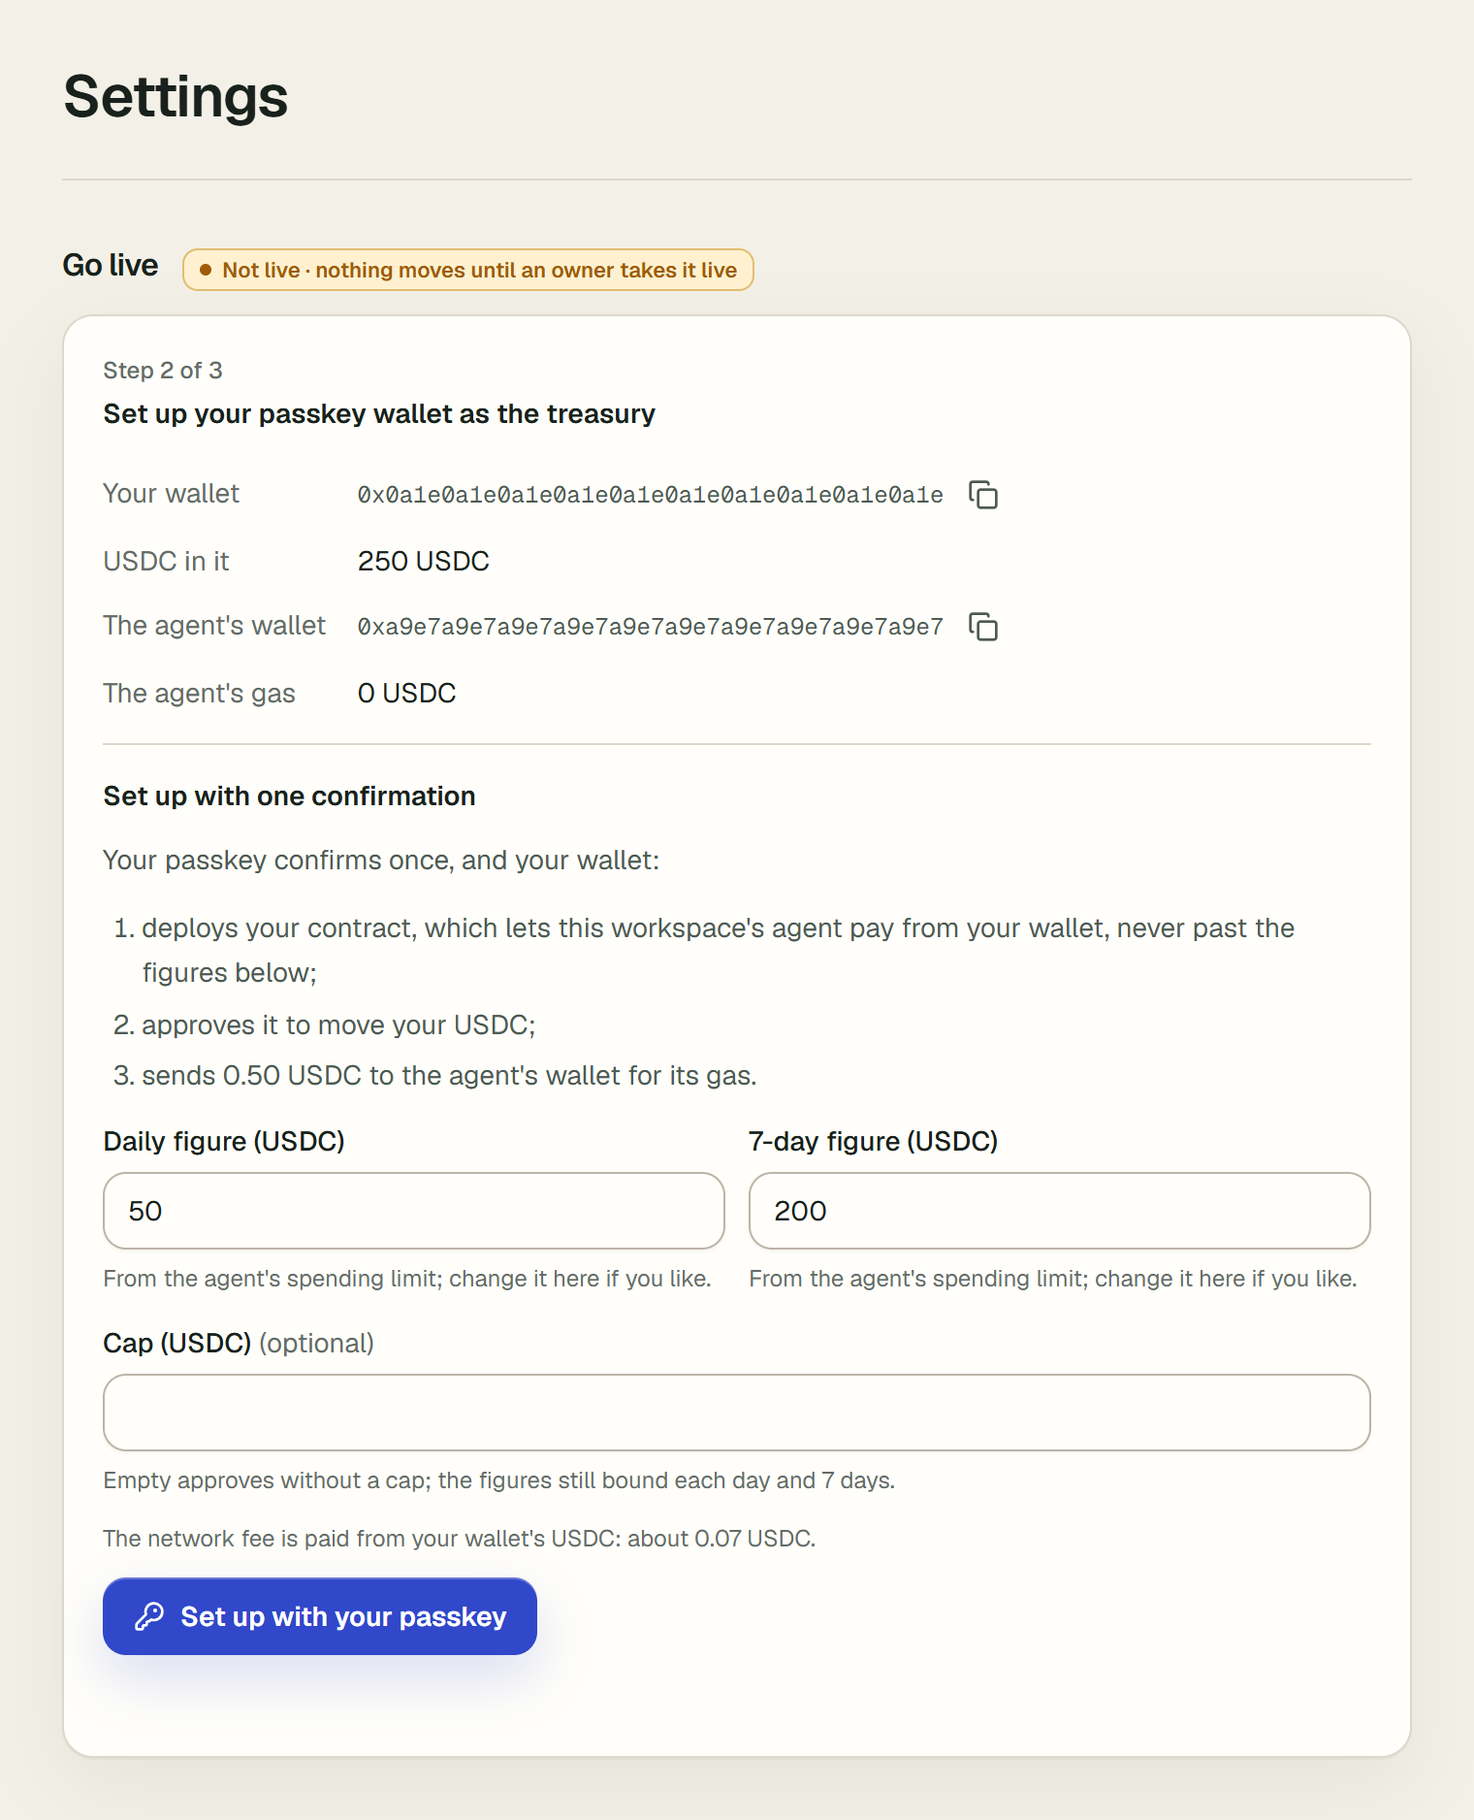
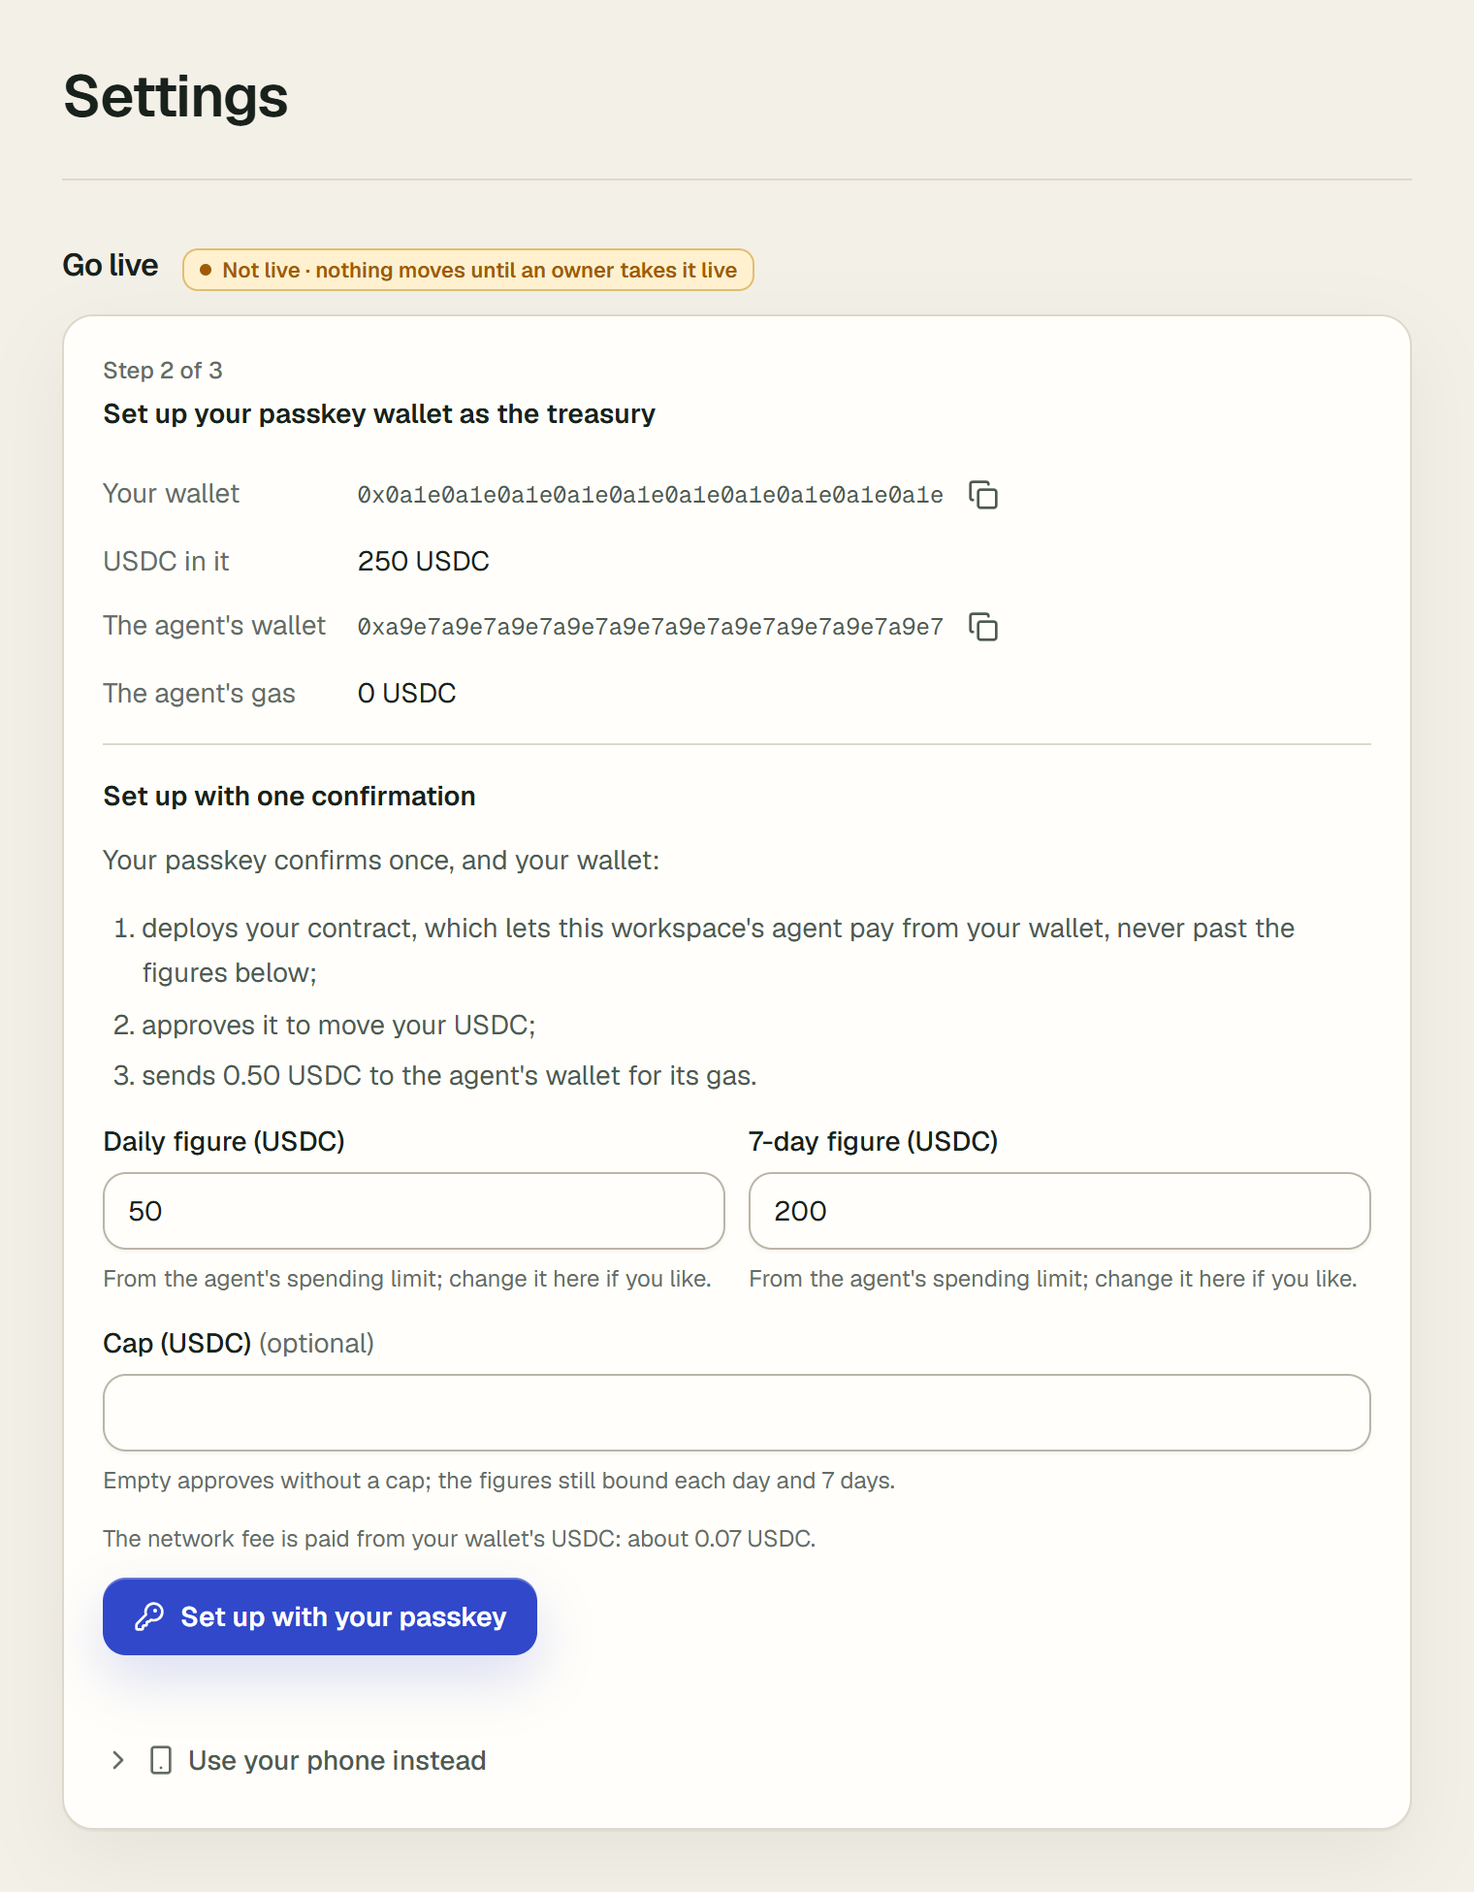
Offer to make or use the passkey on a phone instead
From a computer, a passkey on a phone is reached over the browser's
Bluetooth link, which stayed on "Connecting to your device" on a
Windows PC without Windows Hello; the same page on the phone worked at
once. Under the passkey card and each step the passkey signs, "Use your
phone instead" now shows a QR code of the page: folded on a computer,
open where the device keeps no passkey of its own, absent on a phone.

Changed region(s): [[0.0618, 0.1855, 0.9276, 0.9584], [0.0309, 0.1237, 0.5257, 0.1546], [0.0309, 0.0309, 0.2164, 0.0928]]

diff --git a/src/components/treasury/PhoneHandoff.tsx b/src/components/treasury/PhoneHandoff.tsx
@@ -1,0 +1,101 @@
+"use client";
+
+import { ChevronRight, Smartphone } from "lucide-react";
+import { createContext, useContext, useSyncExternalStore, type ReactNode } from "react";
+import { Disclosure } from "@/components/ui/Disclosure";
+import { handoffView, qrPath } from "@/lib/passkey-handoff";
+
+/** "Use your phone instead" under a passkey button: why and when in src/lib/passkey-handoff.ts. */
+
+const neverChanges = () => () => {};
+const FINE_POINTER = "(hover: hover) and (pointer: fine)";
+
+const HandoffUrl = createContext<string | null>(null);
+
+/** Gives the handoff a page to show where this page's own address is not the one to scan: the guide's screenshots. */
+export function PhoneHandoffUrl({ url, children }: { url: string; children: ReactNode }) {
+  return <HandoffUrl.Provider value={url}>{children}</HandoffUrl.Provider>;
+}
+
+/** Whether this device keeps passkeys of its own, asked once a page: null until the browser answers. */
+const device: { keeps: boolean | null; asked: boolean; listeners: Set<() => void> } = { keeps: null, asked: false, listeners: new Set() };
+
+function subscribeDevice(onChange: () => void): () => void {
+  device.listeners.add(onChange);
+  if (!device.asked) {
+    device.asked = true;
+    window.PublicKeyCredential?.isUserVerifyingPlatformAuthenticatorAvailable?.()
+      .then((keeps) => {
+        device.keeps = keeps;
+        device.listeners.forEach((listener) => listener());
+      })
+      .catch(() => {});
+  }
+  return () => {
+    device.listeners.delete(onChange);
+  };
+}
+
+function subscribePointer(onChange: () => void): () => void {
+  const query = window.matchMedia(FINE_POINTER);
+  query.addEventListener("change", onChange);
+  return () => query.removeEventListener("change", onChange);
+}
+
+/** The handoff for this device: open where it keeps no passkey of its own, folded on a computer, left out on a phone. */
+export function PhoneHandoff({ kind }: { kind: "create" | "confirm" }) {
+  const deviceKeepsPasskeys = useSyncExternalStore(subscribeDevice, () => device.keeps, () => null);
+  const finePointer = useSyncExternalStore(subscribePointer, () => window.matchMedia(FINE_POINTER).matches, () => null);
+  const given = useContext(HandoffUrl);
+  const here = useSyncExternalStore(neverChanges, () => window.location.href, () => null);
+  const url = given ?? here;
+  const view = handoffView({ finePointer, deviceKeepsPasskeys });
+  if (view === "hidden" || !url) return null;
+  return <PhoneHandoffPanel kind={kind} url={url} open={view === "open"} />;
+}
+
+/** A code that opens `url` on a phone, with what to do there. */
+export function PhoneHandoffPanel({ kind, url, open }: { kind: "create" | "confirm"; url: string; open: boolean }) {
+  const { size, path } = qrPath(url);
+  return (
+    <Disclosure
+      variant="bare"
+      defaultOpen={open}
+      summary={
+        <span className="inline-flex items-center gap-1.5 text-sm font-medium text-ink-2 transition-colors duration-150 ease-standard hover:text-ink">
+          <ChevronRight aria-hidden className="size-4 shrink-0 text-ink-3 transition-transform duration-200 ease-standard group-open/disclosure:rotate-90" />
+          <Smartphone aria-hidden className="size-4 shrink-0 text-ink-3" />
+          Use your phone instead
+        </span>
+      }
+      contentClassName="pt-3"
+    >
+      <div className="flex flex-wrap items-start gap-4">
+        <svg
+          viewBox={`0 0 ${size} ${size}`}
+          role="img"
+          aria-label="A code that opens this page on your phone"
+          shapeRendering="crispEdges"
+          className="size-36 shrink-0 rounded-lg border border-line bg-surface"
+        >
+          <path className="fill-ink" d={path} />
+        </svg>
+        <div className="min-w-0 flex-1 space-y-2 text-sm leading-relaxed text-ink-2">
+          {kind === "create" ? (
+            <p>
+              Scan this code with your phone to open this page there, and create the passkey on the phone itself. From a computer with no passkey of its
+              own, such as a Windows PC without Windows Hello, the browser asks your phone over Bluetooth, and can stay on &quot;Connecting to your
+              device&quot;.
+            </p>
+          ) : (
+            <p>
+              Scan this code with the phone that holds the passkey to open this page there, and confirm on the phone. From a computer, the browser
+              reaches a passkey on your phone over Bluetooth, and can stay on &quot;Connecting to your device&quot;.
+            </p>
+          )}
+          <p className="break-all font-mono text-xs text-ink-3">{url}</p>
+        </div>
+      </div>
+    </Disclosure>
+  );
+}

diff --git a/tests/go-live-panel.test.tsx b/tests/go-live-panel.test.tsx
@@ -28,6 +28,11 @@ vi.mock("@/app/actions/wallet-treasury", () => ({
   skipRecoveryAction: vi.fn(),
 }));
 vi.mock("next/navigation", () => ({ useRouter: () => ({ refresh: vi.fn() }) }));
+// The handoff reads the device in the browser only; here it marks where the panel places it.
+vi.mock("@/components/treasury/PhoneHandoff", async () => {
+  const { createElement } = await import("react");
+  return { PhoneHandoff: ({ kind }: { kind: string }) => createElement("i", { "data-phone-handoff": kind }) };
+});
 
 vi.mock("@/app/actions/go-live", () => ({
   chooseHostedWalletAction: vi.fn(),
@@ -527,6 +532,15 @@ describe("GoLivePanel and the owner's own wallet (wallet treasury W1, W5-W10)", 
     }
   });
 
+  it("offers to make the passkey on a phone instead, under the passkey card (2026-10-07)", () => {
+    vi.stubEnv("NEXT_PUBLIC_MODULAR_WALLETS_MAINNET_CLIENT_KEY", "LIVE_CLIENT_KEY:abc");
+    try {
+      expect(panel(status({ network: "arc-mainnet", walletTreasuryAvailable: true }))).toContain('data-phone-handoff="create"');
+    } finally {
+      vi.unstubAllEnvs();
+    }
+  });
+
   it("offers no passkey wallet without the mainnet client key", () => {
     vi.stubEnv("NEXT_PUBLIC_MODULAR_WALLETS_MAINNET_CLIENT_KEY", "");
     try {
@@ -612,6 +626,12 @@ describe("GoLivePanel and the owner's own wallet (wallet treasury W1, W5-W10)", 
       expect(words).toContain("Set up with your passkey");
       expect(words).toContain("The network fee is paid from your wallet's USDC: about 0.07 USDC.");
       expect(words).not.toContain("Deploy from your wallet");
+    });
+
+    it("offers to confirm on a phone wherever the passkey signs, and nowhere it does not (2026-10-07)", () => {
+      expect(panel(passkey({ step: "deploy", walletUsdc: 12.5 }))).toContain('data-phone-handoff="confirm"');
+      expect(panel(passkey({ step: "recovery", contract: CONTRACT, walletUsdc: 12, agentGasUsdc: 0.5 }))).toContain('data-phone-handoff="confirm"');
+      expect(panel(passkey({ step: "deploy", walletUsdc: 0.2 }))).not.toContain("data-phone-handoff");
     });
 
     it("asks for a recovery phrase after setup, and lets the owner skip it knowingly", () => {

diff --git a/src/app/docs-shots/shots.tsx b/src/app/docs-shots/shots.tsx
@@ -23,6 +23,7 @@ import InvoiceDocumentIntake, { DocumentDraft } from "@/components/intake/Invoic
 import InvoiceIntake from "@/components/intake/InvoiceIntake";
 import PayFreelancerForm, { PaymentLinkReady } from "@/components/intake/PayFreelancerForm";
 import { PayeeJourney } from "@/components/payee/PayeeJourney";
+import { PhoneHandoffUrl } from "@/components/treasury/PhoneHandoff";
 import { Button } from "@/components/ui/Button";
 import { Card } from "@/components/ui/Card";
 import { CopyButton } from "@/components/ui/CopyButton";
@@ -174,9 +175,20 @@ const PASSKEY_RECOVERY: GoLiveStatus = {
   },
 };
 
+/** Set up, with the agent's gas run short before going live: the passkey sends it more (the guide's "only when needed"). */
+const PASSKEY_GAS: GoLiveStatus = {
+  ...PASSKEY_RECOVERY,
+  walletTreasury: { ...PASSKEY_RECOVERY.walletTreasury!, step: "gas", agentGasUsdc: 0.04 },
+};
+
 function goLive(status: GoLiveStatus, sampleBalance?: number): () => ReactNode {
   return function GoLiveShot() {
-    return <GoLivePanel orgSlug={SLUG} status={status} canAdminister sampleBalance={sampleBalance} />;
+    // The phone handoff's code shows the workspace's own Settings, not the screenshot's address.
+    return (
+      <PhoneHandoffUrl url={`https://www.vestiarion.xyz/o/${SLUG}/settings`}>
+        <GoLivePanel orgSlug={SLUG} status={status} canAdminister sampleBalance={sampleBalance} />
+      </PhoneHandoffUrl>
+    );
   };
 }
 
@@ -572,6 +584,8 @@ export const DOCS_SHOTS = {
   "go-live-passkey-fund": { guide: "go-live", page: "settings", render: goLive(PASSKEY_FUND) },
   "go-live-passkey-setup": { guide: "go-live", page: "settings", render: goLive(PASSKEY_SETUP) },
   "go-live-passkey-recovery": { guide: "go-live", page: "settings", render: goLive(PASSKEY_RECOVERY) },
+  // A computer with no passkey of its own: the script tells the page so, and the phone handoff opens by itself.
+  "go-live-passkey-phone": { guide: "go-live", page: "settings", render: goLive(PASSKEY_GAS) },
   "go-live-live": {
     guide: "go-live",
     page: "settings",

diff --git a/tests/passkey-handoff.test.ts b/tests/passkey-handoff.test.ts
@@ -1,0 +1,38 @@
+import { encode } from "uqr";
+import { describe, expect, it } from "vitest";
+import { handoffView, qrPath } from "@/lib/passkey-handoff";
+
+/**
+ * "Use your phone instead" under a passkey button (2026-10-07): a code that opens the same page on the phone, so a
+ * passkey is made or used there without the browser's Bluetooth link to the phone. The partner's Windows PC, with no
+ * Windows Hello, stayed on "Connecting to your device"; the same page on the iPhone made the treasury's passkey at once.
+ */
+
+describe("handoffView", () => {
+  it("opens the handoff where the device keeps no passkey of its own", () => {
+    expect(handoffView({ finePointer: true, deviceKeepsPasskeys: false })).toBe("open");
+    expect(handoffView({ finePointer: null, deviceKeepsPasskeys: false })).toBe("open");
+  });
+
+  it("offers it folded on a computer that keeps passkeys, or before it is known whether it does", () => {
+    expect(handoffView({ finePointer: true, deviceKeepsPasskeys: true })).toBe("collapsed");
+    expect(handoffView({ finePointer: true, deviceKeepsPasskeys: null })).toBe("collapsed");
+  });
+
+  it("leaves it out on a phone that keeps its own passkeys, and while nothing is known", () => {
+    expect(handoffView({ finePointer: false, deviceKeepsPasskeys: true })).toBe("hidden");
+    expect(handoffView({ finePointer: null, deviceKeepsPasskeys: null })).toBe("hidden");
+  });
+});
+
+describe("qrPath", () => {
+  it("draws one square for each dark module of the page's QR code, inside a quiet zone of two modules", () => {
+    const url = "https://www.vestiarion.xyz/o/mainnet-wp/settings";
+    const { size, path } = qrPath(url);
+    const modules = encode(url, { border: 2 }).data;
+    expect(size).toBe(modules.length);
+    expect(path.match(/M/g)).toHaveLength(modules.flat().filter(Boolean).length);
+    expect(path).not.toMatch(/M[01] /);
+    expect(path).not.toMatch(/M\d+ [01]h/);
+  });
+});

diff --git a/tests/passkey-handoff-panel.test.tsx b/tests/passkey-handoff-panel.test.tsx
@@ -1,0 +1,31 @@
+import { renderToStaticMarkup } from "react-dom/server";
+import { describe, expect, it } from "vitest";
+import { PhoneHandoffPanel } from "@/components/treasury/PhoneHandoff";
+
+/** The handoff as it renders (the tests/go-live-panel.test.tsx shape: vitest's node environment, no DOM). */
+
+const PAGE = "https://www.vestiarion.xyz/o/mainnet-wp/settings";
+
+describe("PhoneHandoffPanel", () => {
+  it("folds a code that opens this page on the phone under Use your phone instead", () => {
+    const folded = renderToStaticMarkup(<PhoneHandoffPanel kind="confirm" url={PAGE} open={false} />);
+    expect(folded).toContain("<details");
+    expect(folded).not.toMatch(/<details[^>]*\sopen/);
+    expect(folded).toContain("Use your phone instead");
+    expect(folded).toMatch(/<svg[^>]*role="img"[^>]*aria-label="A code that opens this page on your phone"/);
+    expect(folded).toContain(PAGE);
+  });
+
+  it("is open where the device keeps no passkey of its own", () => {
+    expect(renderToStaticMarkup(<PhoneHandoffPanel kind="confirm" url={PAGE} open />)).toMatch(/<details[^>]*\sopen/);
+  });
+
+  it("says whether the passkey is made or used on the phone, and why the computer may wait", () => {
+    const create = renderToStaticMarkup(<PhoneHandoffPanel kind="create" url={PAGE} open />);
+    expect(create).toContain("create the passkey on the phone itself");
+    expect(create).toContain("Connecting to your device");
+    const confirm = renderToStaticMarkup(<PhoneHandoffPanel kind="confirm" url={PAGE} open />);
+    expect(confirm).toContain("Scan this code with the phone that holds the passkey");
+    expect(confirm).toContain("confirm on the phone");
+  });
+});

diff --git a/src/lib/passkey-handoff.ts b/src/lib/passkey-handoff.ts
@@ -1,0 +1,28 @@
+import { encode } from "uqr";
+
+/**
+ * "Use your phone instead" under a passkey button (2026-10-07): a code that opens the same page on a phone, so the
+ * passkey is made or used there rather than reached from the computer over the browser's Bluetooth link to the phone.
+ * That link stayed on "Connecting to your device" on the partner's Windows PC, with no Windows Hello, while the same page
+ * on the iPhone made the treasury's passkey at once. Browser-safe: the Go live panel draws it.
+ */
+
+export type HandoffView = "hidden" | "collapsed" | "open";
+
+/** Open where the device keeps no passkey of its own; folded on a computer; left out on a phone, and before it is known. */
+export function handoffView(input: { finePointer: boolean | null; deviceKeepsPasskeys: boolean | null }): HandoffView {
+  if (input.deviceKeepsPasskeys === false) return "open";
+  return input.finePointer === true ? "collapsed" : "hidden";
+}
+
+/** A page's QR code as one SVG path of unit squares, with a quiet zone of two modules, for the page's ink to fill. */
+export function qrPath(url: string): { size: number; path: string } {
+  const { data } = encode(url, { border: 2 });
+  let path = "";
+  data.forEach((row, y) =>
+    row.forEach((dark, x) => {
+      if (dark) path += `M${x} ${y}h1v1h-1z`;
+    })
+  );
+  return { size: data.length, path };
+}

diff --git a/src/components/treasury/PasskeyTreasurySteps.tsx b/src/components/treasury/PasskeyTreasurySteps.tsx
@@ -13,6 +13,7 @@ import {
   recordRecoveryAction,
   skipRecoveryAction,
 } from "@/app/actions/wallet-treasury";
+import { PhoneHandoff } from "@/components/treasury/PhoneHandoff";
 import { WalletTreasurySummary } from "@/components/treasury/WalletTreasurySteps";
 import { Badge } from "@/components/ui/Badge";
 import { Button } from "@/components/ui/Button";
@@ -145,6 +146,7 @@ export function PasskeyWalletCard({ orgSlug, lead }: { orgSlug: string; lead: bo
         </Button>
       </div>
       <FormMessage tone={note?.tone ?? "neutral"}>{note?.text}</FormMessage>
+      <PhoneHandoff kind="create" />
     </div>
   );
 }
@@ -548,7 +550,13 @@ export default function PasskeyTreasurySteps({ orgSlug, status, network }: { org
         <h3 className="text-sm font-semibold text-ink">Set up your passkey wallet as the treasury</h3>
       </div>
       <WalletTreasurySummary status={status} network={network} />
-      {body && <div className="space-y-3 border-t border-line pt-4">{body}</div>}
+      {body && (
+        <div className="space-y-3 border-t border-line pt-4">
+          {body}
+          {/* Where the passkey signs, it can sign on a phone instead (src/lib/passkey-handoff.ts). */}
+          {(view === "setup" || view === "gas" || view === "recovery") && <PhoneHandoff kind="confirm" />}
+        </div>
+      )}
     </Card>
   );
 }

diff --git a/ARCHITECTURE.md b/ARCHITECTURE.md
@@ -554,6 +554,11 @@ with no browser wallet:
     at least 1 gwei of priority (`circleUserOperationFees` in `src/lib/passkey-wallet-sdk.ts`). On 2026-10-07 Arc
     mainnet's own priority fee was 4,049 wei, Circle's bundler asked at least 3 gwei, and it refused the first setup
     priced the chain's way. A failure nothing else names shows the reason the bundler or browser gave.
+  - Under the passkey card and each step the passkey signs, **Use your phone instead** shows a QR code of the page
+    (`src/components/treasury/PhoneHandoff.tsx`, `src/lib/passkey-handoff.ts`, drawn with `uqr`): folded on a computer,
+    open where `isUserVerifyingPlatformAuthenticatorAvailable` says the device keeps no passkey, absent on a phone. A
+    computer reaching a phone's passkey goes over the browser's Bluetooth link, which stayed on "Connecting to your
+    device" on the partner's Windows PC on 2026-10-07.
 - **The recovery.** A recovery phrase made in the browser is registered as a recovery owner with
   Circle's `registerRecoveryAddress` (`treasury_recovery_registered`), or skipped knowingly
   (`treasury_recovery_skipped`). `goLive` refuses until one is recorded (`wallet_recovery_undecided`).
